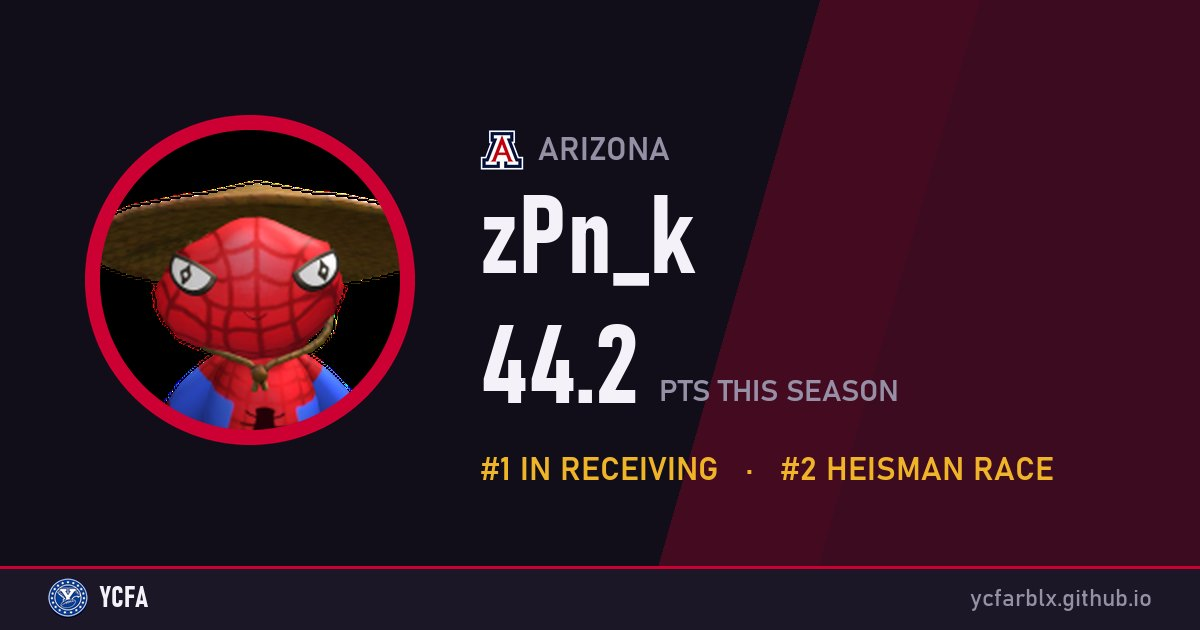
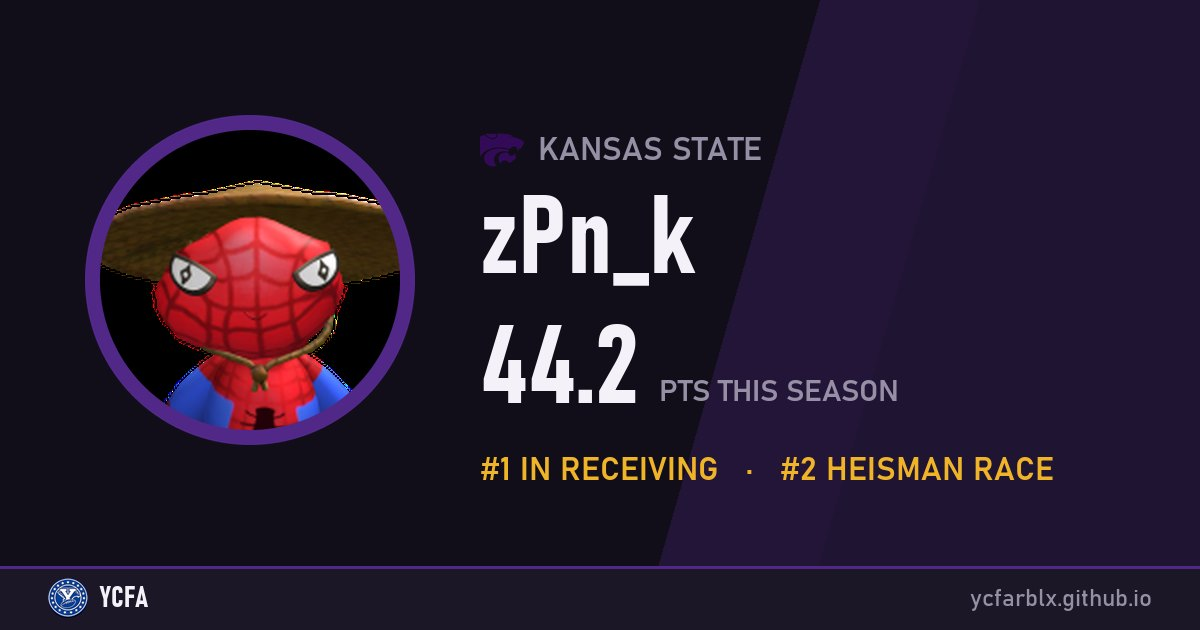
Stats update 2026-11-24 13:26

diff --git a/player/zpn_k/index.html b/player/zpn_k/index.html
@@ -5,20 +5,20 @@
   <meta name="viewport" content="width=device-width, initial-scale=1, viewport-fit=cover">
   <!--meta:start-->
   <title>zPn_k · YCFA</title>
-  <meta name="description" content="DB / DL / WR · Arizona · 44.2 PTS in season 1 · #1 In Receiving   ·   #2 Heisman Race. Stats, game log and career highs.">
-  <meta name="theme-color" content="#cc0033">
+  <meta name="description" content="DB / DL / WR · Kansas State · 44.2 PTS in season 1 · #1 In Receiving   ·   #2 Heisman Race. Stats, game log and career highs.">
+  <meta name="theme-color" content="#512888">
   <meta property="og:site_name" content="YCFA">
   <meta property="og:type" content="website">
   <meta property="og:title" content="zPn_k · YCFA">
-  <meta property="og:description" content="DB / DL / WR · Arizona · 44.2 PTS in season 1 · #1 In Receiving   ·   #2 Heisman Race. Stats, game log and career highs.">
+  <meta property="og:description" content="DB / DL / WR · Kansas State · 44.2 PTS in season 1 · #1 In Receiving   ·   #2 Heisman Race. Stats, game log and career highs.">
   <meta property="og:url" content="https://ycfarblx.github.io/player/zpn_k">
-  <meta property="og:image" content="https://ycfarblx.github.io/og/player-zpn_k.jpg?v=1acae3c574">
+  <meta property="og:image" content="https://ycfarblx.github.io/og/player-zpn_k.jpg?v=420720ba73">
   <meta property="og:image:width" content="1200">
   <meta property="og:image:height" content="630">
   <meta name="twitter:card" content="summary_large_image">
   <meta name="twitter:title" content="zPn_k · YCFA">
-  <meta name="twitter:description" content="DB / DL / WR · Arizona · 44.2 PTS in season 1 · #1 In Receiving   ·   #2 Heisman Race. Stats, game log and career highs.">
-  <meta name="twitter:image" content="https://ycfarblx.github.io/og/player-zpn_k.jpg?v=1acae3c574">
+  <meta name="twitter:description" content="DB / DL / WR · Kansas State · 44.2 PTS in season 1 · #1 In Receiving   ·   #2 Heisman Race. Stats, game log and career highs.">
+  <meta name="twitter:image" content="https://ycfarblx.github.io/og/player-zpn_k.jpg?v=420720ba73">
   <!--meta:end-->
   <link rel="icon" href="/img/favicon.png">
   <link rel="apple-touch-icon" href="/img/apple-touch-icon.png">

diff --git a/game/1/index.html b/game/1/index.html
@@ -12,13 +12,13 @@
   <meta property="og:title" content="Arizona 70, Oregon 6 · Final · YCFA">
   <meta property="og:description" content="fatboiugly520 had 631 passing yards and 7 TDs as Arizona beat Oregon 70–6. Player of the game: fatboiugly520 (52.5 PTS).">
   <meta property="og:url" content="https://ycfarblx.github.io/game/1">
-  <meta property="og:image" content="https://ycfarblx.github.io/og/game-1.jpg?v=26bd606d7a">
+  <meta property="og:image" content="https://ycfarblx.github.io/og/game-1.jpg?v=ccb2c929ee">
   <meta property="og:image:width" content="1200">
   <meta property="og:image:height" content="630">
   <meta name="twitter:card" content="summary_large_image">
   <meta name="twitter:title" content="Arizona 70, Oregon 6 · Final · YCFA">
   <meta name="twitter:description" content="fatboiugly520 had 631 passing yards and 7 TDs as Arizona beat Oregon 70–6. Player of the game: fatboiugly520 (52.5 PTS).">
-  <meta name="twitter:image" content="https://ycfarblx.github.io/og/game-1.jpg?v=26bd606d7a">
+  <meta name="twitter:image" content="https://ycfarblx.github.io/og/game-1.jpg?v=ccb2c929ee">
   <!--meta:end-->
   <link rel="icon" href="/img/favicon.png">
   <link rel="apple-touch-icon" href="/img/apple-touch-icon.png">

diff --git a/game/3/index.html b/game/3/index.html
@@ -12,13 +12,13 @@
   <meta property="og:title" content="Kansas State 21, Houston 0 · Final · YCFA">
   <meta property="og:description" content="Houston forfeited. Kansas State gets the forfeit win (FFW), Houston the forfeit loss (FFL).">
   <meta property="og:url" content="https://ycfarblx.github.io/game/3">
-  <meta property="og:image" content="https://ycfarblx.github.io/og/game-3.jpg?v=d31fe43798">
+  <meta property="og:image" content="https://ycfarblx.github.io/og/game-3.jpg?v=372160378d">
   <meta property="og:image:width" content="1200">
   <meta property="og:image:height" content="630">
   <meta name="twitter:card" content="summary_large_image">
   <meta name="twitter:title" content="Kansas State 21, Houston 0 · Final · YCFA">
   <meta name="twitter:description" content="Houston forfeited. Kansas State gets the forfeit win (FFW), Houston the forfeit loss (FFL).">
-  <meta name="twitter:image" content="https://ycfarblx.github.io/og/game-3.jpg?v=d31fe43798">
+  <meta name="twitter:image" content="https://ycfarblx.github.io/og/game-3.jpg?v=372160378d">
   <!--meta:end-->
   <link rel="icon" href="/img/favicon.png">
   <link rel="apple-touch-icon" href="/img/apple-touch-icon.png">
